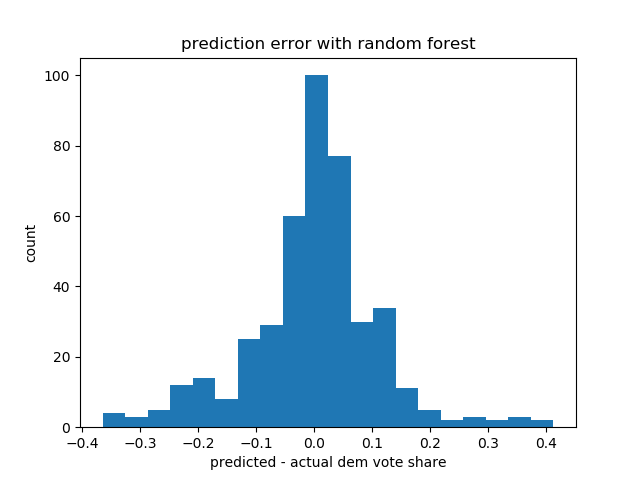
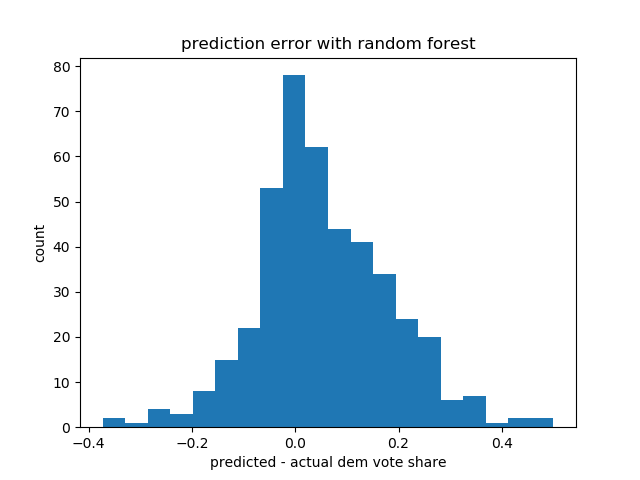
max tree depth, number of trees

diff --git a/python/tree_forest.py b/python/tree_forest.py
@@ -67,7 +67,7 @@ for row in csv_reader:
 # train_disc = enc.fit_transform(np.asarray(np.array(train), dtype = float))
 # test_disc = enc.fit_transform(np.asarray(np.array(test), dtype = float))
 
-clf_tree = tree.DecisionTreeClassifier()
+clf_tree = tree.DecisionTreeClassifier(max_depth = 10)
 clf_tree.fit(train, train_votes)
 prediction_tree = np.asarray(clf_tree.predict(test), dtype = float)
 error_tree = (np.absolute((np.asarray(prediction_tree, dtype=float) - np.asarray(np.array(test_votes), dtype = float)))).mean()
@@ -75,7 +75,7 @@ append_error(np.asarray(prediction_tree, dtype = float), county_state, np.asarra
 visualize_error(county_state, "prediction error with tree", "../output/tree_error.png")
 generate_results(county_state, "../data/tree_predictions.csv")
 
-clf_forest = RandomForestClassifier()
+clf_forest = RandomForestClassifier(n_estimators = 50, max_depth = 10)
 clf_forest.fit(train, train_votes)
 prediction_forest = np.asarray(clf_forest.predict(test), dtype = float)
 error_forest = (np.absolute((np.asarray(prediction_forest, dtype=float) - np.asarray(np.array(test_votes), dtype = float)))).mean()
